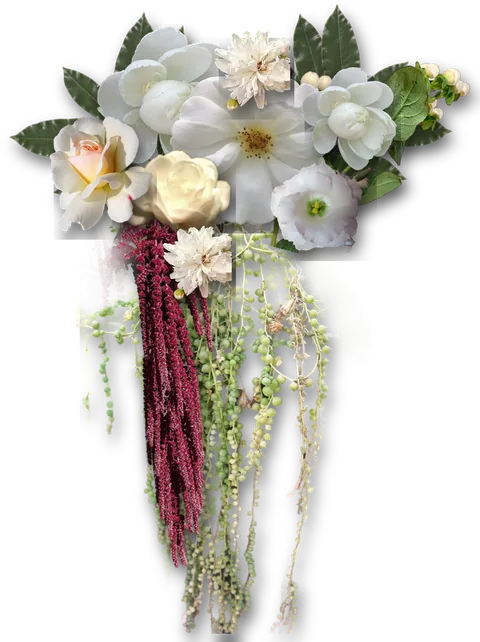
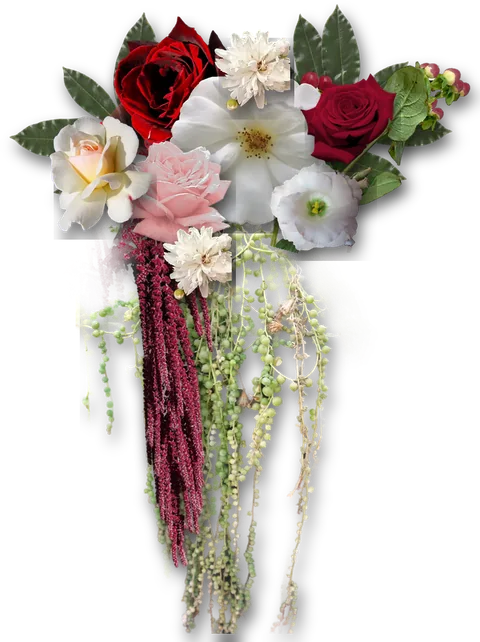
Beludru: bunga campuran maroon, putih, dan dusty rose sesuai moodboard

diff --git a/beludru.html b/beludru.html
@@ -570,7 +570,7 @@ main>section+section:not(.velvet+.velvet):not(.suede+.suede)>.seam{display:block
 </main>
 <footer>JOSUA &amp; LARASATI · 12.06.2027
   <details class="credit"><summary>Kredit foto</summary>
-    <p>Rangkaian bunga disusun dari foto Wikimedia Commons; hasil susunannya berlisensi <a href="https://creativecommons.org/licenses/by-sa/4.0/" target="_blank" rel="noopener">CC BY-SA 4.0</a>. Foto oleh: Leonora Enking (CC BY-SA 2.0), Balise42 (CC BY-SA 4.0), Tubifex (CC BY-SA 3.0), Nesnad (CC BY 4.0), Bff (CC BY-SA 3.0), Rabe! &amp; Fmi2012 (CC BY-SA 3.0), B.navez (CC BY-SA 3.0), Amada44 (CC BY 3.0), Filo gèn' (CC BY-SA 4.0), SzinNapalm (CC BY 4.0), Downtowngal (CC BY-SA 4.0), ChickenFreak &amp; Dusan Bicanski (domain publik). Rincian: <a href="aset/bunga/KREDIT.md" target="_blank" rel="noopener">KREDIT.md</a>.</p>
+    <p>Rangkaian bunga disusun dari foto Wikimedia Commons; hasil susunannya berlisensi <a href="https://creativecommons.org/licenses/by-sa/4.0/" target="_blank" rel="noopener">CC BY-SA 4.0</a>. Foto oleh: Leonora Enking (CC BY-SA 2.0), Balise42 (CC BY-SA 4.0), Tubifex (CC BY-SA 3.0), Nesnad (CC BY 4.0), Bff (CC BY-SA 3.0), Rabe! &amp; Fmi2012 (CC BY-SA 3.0), B.navez (CC BY-SA 3.0), Amada44 (CC BY 3.0), Kurt Stüber (CC BY-SA 3.0), Filo gèn' (CC BY-SA 4.0), Laitche (CC BY-SA 4.0), SzinNapalm (CC BY 4.0), Downtowngal (CC BY-SA 4.0), ChickenFreak &amp; Dusan Bicanski (domain publik). Rincian: <a href="aset/bunga/KREDIT.md" target="_blank" rel="noopener">KREDIT.md</a>.</p>
     <p>Foto galeri &amp; kain: Drew Coffman, Petr Ovralov, Paul García, Anne Edgar, Wu Jianxiong (Unsplash, CC0); Astari28 (CC BY 4.0); Rijksmuseum &amp; Honolulu Museum of Art (CC0). Rincian: <a href="aset/foto/KREDIT.md" target="_blank" rel="noopener">KREDIT.md</a>.</p>
   </details>
 </footer>

diff --git a/aset/bunga/KREDIT.md b/aset/bunga/KREDIT.md
@@ -17,5 +17,9 @@ Gambar `bunga-besar.webp`, `bunga-kecil.webp`, `bunga-juntai.webp`, dan `bunga-l
 | [White Peony Blossom](https://commons.wikimedia.org/wiki/File:White_Peony_Blossom.jpg) | ChickenFreak | Domain publik |
 | [White peony flower](https://commons.wikimedia.org/wiki/File:White_peony_flower.jpg) | Dusan Bicanski | Domain publik |
 | [White Lisianthus flower](https://commons.wikimedia.org/wiki/File:White_Lisianthus_flower.jpg) | Downtowngal | CC BY-SA 4.0 |
+| [Extracted pink rose](https://commons.wikimedia.org/wiki/File:Extracted_pink_rose.png) | Kurt Stüber | CC BY-SA 3.0 |
+| [Rosa Red Chateau on black background](https://commons.wikimedia.org/wiki/File:Rosa_Red_Chateau_on_black_background.jpg) | Filo gèn' | CC BY-SA 4.0 |
+| [Rose Papa Meilland on black background](https://commons.wikimedia.org/wiki/File:Rose_Papa_Meilland_on_black_background.jpg) | Filo gèn' | CC BY-SA 4.0 |
+| [Red rose with black background](https://commons.wikimedia.org/wiki/File:Red_rose_with_black_background.jpg) | Laitche | CC BY-SA 4.0 |
 
-Perubahan: latar foto dihapus, kecerahan mawar krem dinaikkan, bayam ekor kucing digeser ke burgundi, buah hypericum dibuat krem, lalu semuanya disusun menjadi rangkaian.
+Perubahan: latar foto dihapus; mawar merah digelapkan ke burgundi, mawar pink diredam ke dusty rose, kecerahan mawar krem dinaikkan, bayam ekor kucing digeser ke burgundi, buah hypericum digelapkan ke maroon; lalu semuanya disusun menjadi rangkaian dengan palet moodboard (maroon, burgundi, ivory, dusty rose, hijau).
